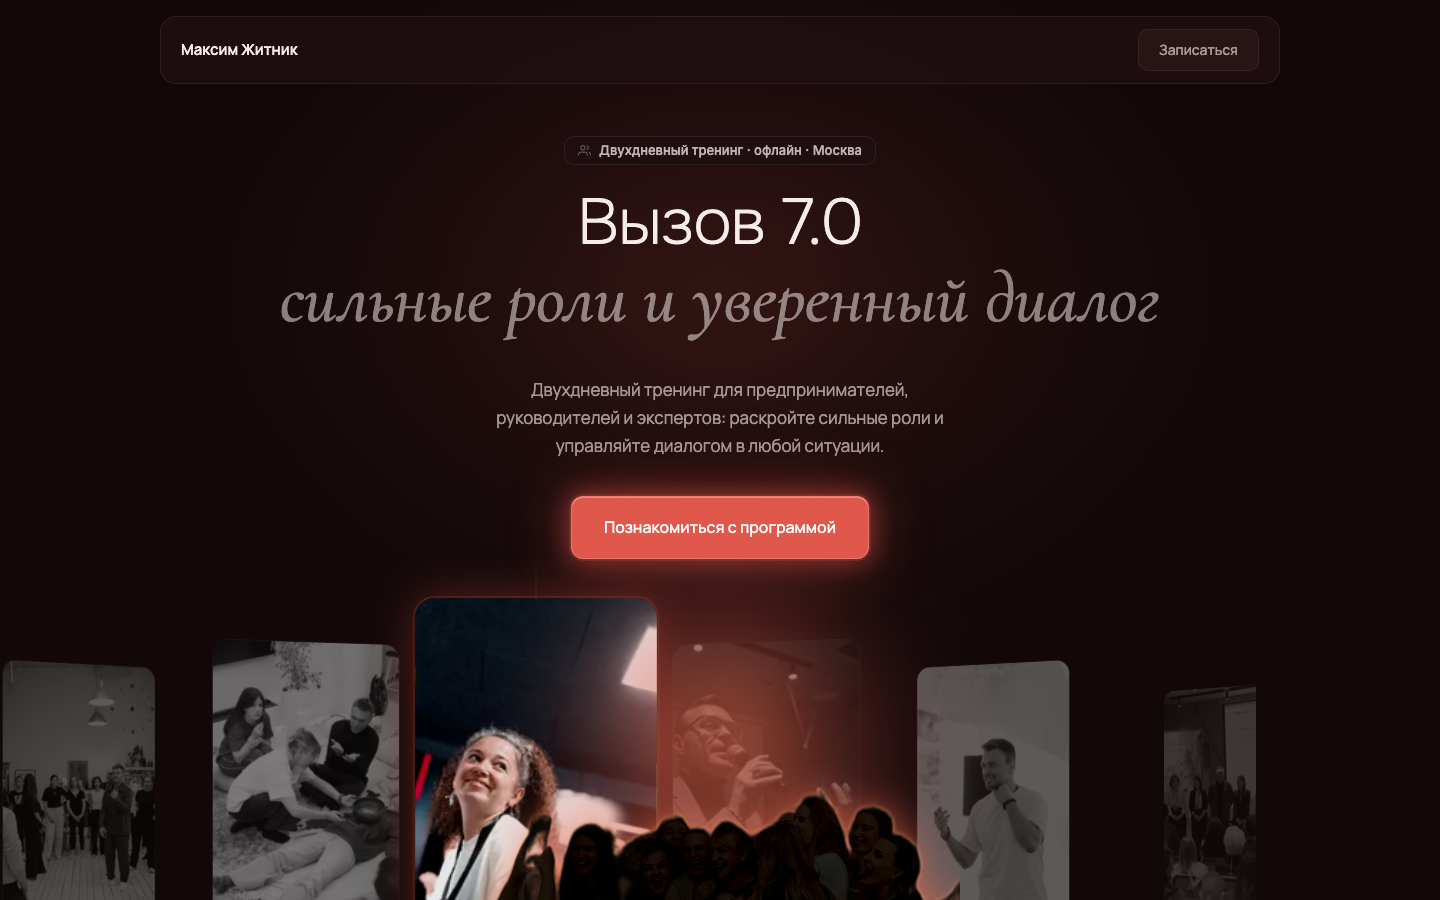
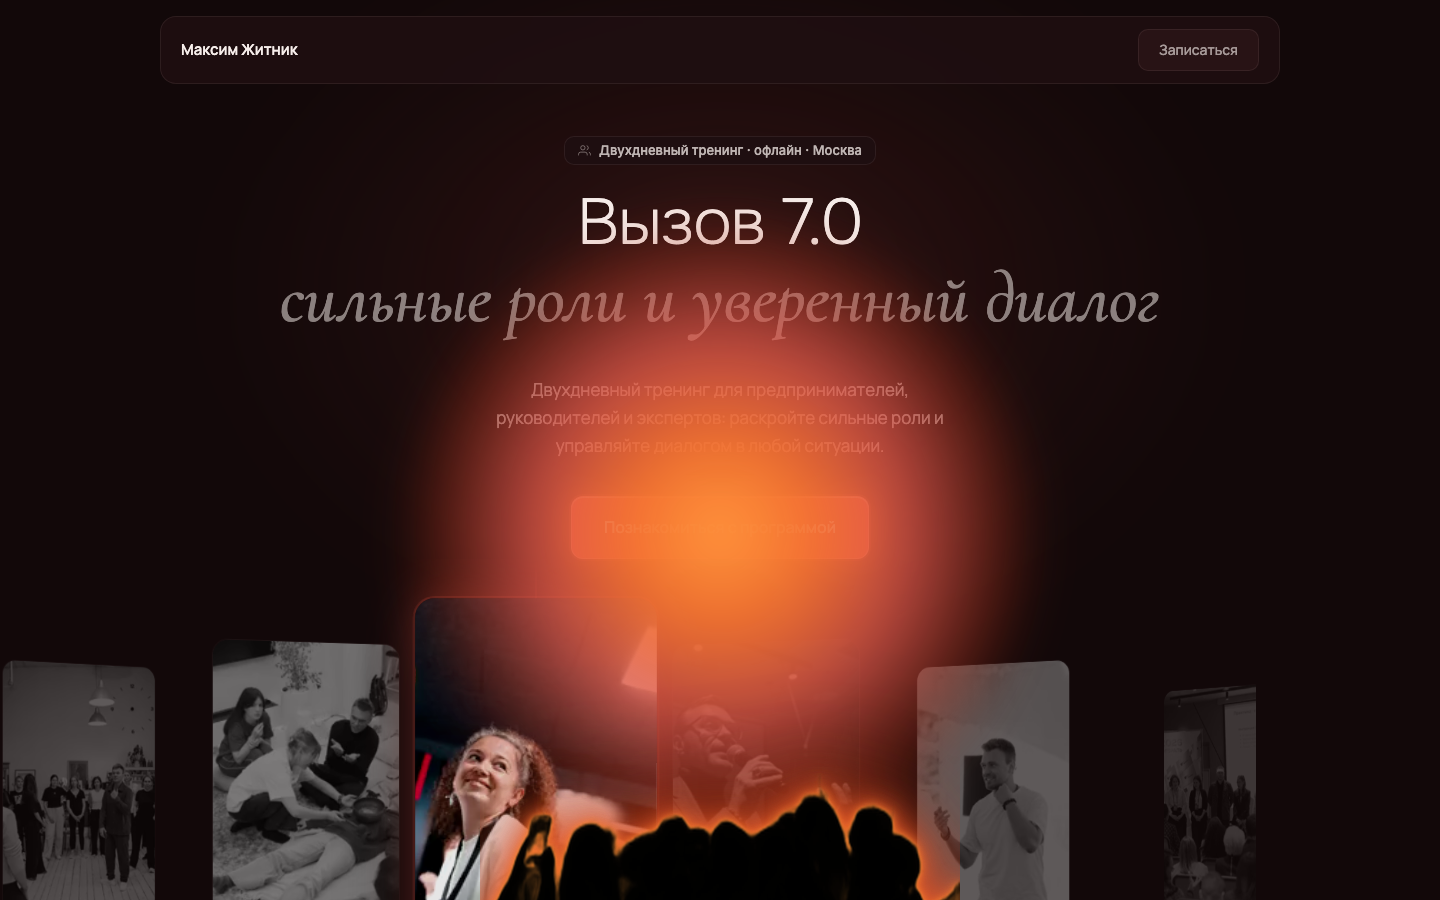
hero: контрастные варианты A/B силуэта; Telegram → TODO
- hero-spot вынесен в прямой дочерний элемент .hero (без clip stacking context)
- Вариант A: тёмный силуэт + 5-слойный rim light (drop-shadow chain orange) + ярко-оранжевое пятно 620px blur 24px
- Вариант B: силуэт brightness(0) (абсолютно чёрный) + кремово-белый прожектор 720px blur 16px + hero-halo скрыт
- Telegram: href="#" + TODO-комментарий (handle не придуман)
- Обновлены скриншоты review/hero-a*, hero-b*, full-*

Changed region(s): [[0.2812, 0.2489, 0.7188, 1.0], [0.5, 0.9956, 0.5312, 1.0]]

diff --git a/index.html b/index.html
@@ -264,29 +264,58 @@ section:not(.hero)::before {
   object-fit: contain; object-position: bottom center;
   -webkit-mask-image: linear-gradient(to top, transparent 0%, black 10%);
   mask-image: linear-gradient(to top, transparent 0%, black 10%);
+  position: relative; z-index: 2;
+}
+/* Пятно за силуэтом: прямой дочерний элемент .hero, без ограничений stacking context */
+.hero-spot {
+  position: absolute;
+  /* Голова силуэта — примерно 25-35% сверху hero (силуэт = 80vh, стоит bottom:0) */
+  top: 18%; left: 50%; transform: translateX(-50%);
+  border-radius: 50%; pointer-events: none;
+  z-index: 2; /* между hero-halo (0) и silhouette (3) */
 }
 
-/* Вариант A — контровой свет */
+/* ── ВАРИАНТ A — КОНТРОВОЙ СВЕТ (оранжево-терракотовое пятно + rim light) ── */
 body[data-hero="a"] .silhouette-img {
-  filter: brightness(.22) contrast(1.3) drop-shadow(0 0 2px rgba(255,170,120,.9)) drop-shadow(0 0 22px rgba(240,110,80,.7));
+  /* тёмный силуэт + яркое оранжевое свечение по контуру (rim light) */
+  filter:
+    brightness(.16) contrast(1.6)
+    drop-shadow(0 0 1px rgba(255,160,60,1))
+    drop-shadow(0 0 4px rgba(255,130,45,1))
+    drop-shadow(0 0 12px rgba(230,90,40,.95))
+    drop-shadow(0 0 28px rgba(210,70,30,.8))
+    drop-shadow(0 0 55px rgba(190,50,20,.5));
 }
-body[data-hero="a"] .hero-silhouette::after {
-  content:''; position:absolute; top:5%; left:50%; transform:translateX(-50%);
-  width:400px; height:400px; border-radius:50%; pointer-events:none;
-  background: radial-gradient(closest-side, rgba(240,120,80,.85) 0%, rgba(224,87,75,.4) 45%, transparent 100%);
-  filter:blur(50px); z-index:-1;
+body[data-hero="a"] .hero-spot {
+  width: 620px; height: 620px;
+  background: radial-gradient(circle,
+    rgba(255,150,60,1)    0%,
+    rgba(245,115,48,.97) 20%,
+    rgba(224,87,75,.8)   42%,
+    rgba(170,45,20,.3)   65%,
+    transparent          80%);
+  filter: blur(24px);
 }
 
-/* Вариант B — чистый контраст */
+/* ── ВАРИАНТ B — ЧЁРНЫЙ СИЛУЭТ НА СВЕТЛОМ ПЯТНЕ (графичный минимализм) ── */
 body[data-hero="b"] .silhouette-img {
-  filter: brightness(.05) contrast(1.5);
+  /* абсолютно чёрный силуэт, без свечения */
+  filter: brightness(0) contrast(2);
 }
-body[data-hero="b"] .hero-silhouette::after {
-  content:''; position:absolute; top:10%; left:50%; transform:translateX(-50%);
-  width:500px; height:500px; border-radius:50%; pointer-events:none;
-  background: radial-gradient(closest-side, rgba(246,237,234,.7) 0%, rgba(224,87,75,.2) 55%, transparent 100%);
-  filter:blur(60px); z-index:-1;
+body[data-hero="b"] .hero-spot {
+  /* яркое кремово-белое пятно — как прожектор сзади */
+  width: 720px; height: 720px;
+  background: radial-gradient(circle,
+    rgba(255,252,248,1)   0%,
+    rgba(250,244,240,1)  12%,
+    rgba(246,237,234,.94) 28%,
+    rgba(240,228,222,.65) 48%,
+    rgba(230,210,200,.2)  66%,
+    transparent           80%);
+  filter: blur(16px);
 }
+/* В варианте B гасим тёплый hero-halo — минималистичный образ, без свечений */
+body[data-hero="b"] .hero-halo { opacity: 0; }
 
 .hero-center {
   display: flex; flex-direction: column; align-items: center; text-align: center;
@@ -931,6 +960,8 @@ footer p { font-size: 14px; color: var(--text-muted); }
 <!-- ═══ 1. ГЕРОЙ ═══ -->
 <section class="hero">
   <div class="hero-halo"></div>
+  <!-- Пятно за силуэтом (позиция: верхняя треть hero, по центру) -->
+  <div class="hero-spot"></div>
 
   <!-- Силуэт Максима (11.3) — z-index:3, между лентой и текстом -->
   <div class="hero-silhouette">
@@ -1453,7 +1484,8 @@ footer p { font-size: 14px; color: var(--text-muted); }
       <div class="price-opt">
         <div class="price-opt-title">Задать вопрос</div>
         <div class="price-opt-sub">Расскажем подробнее</div>
-        <a href="https://t.me/maxzhitnik" class="btn btn-ghost" style="margin-top:auto;" target="_blank">Написать в Telegram</a>
+        <!-- TODO уточнить Telegram у клиента -->
+        <a href="#" class="btn btn-ghost" style="margin-top:auto;">Написать в Telegram</a>
       </div>
     </div>
 
